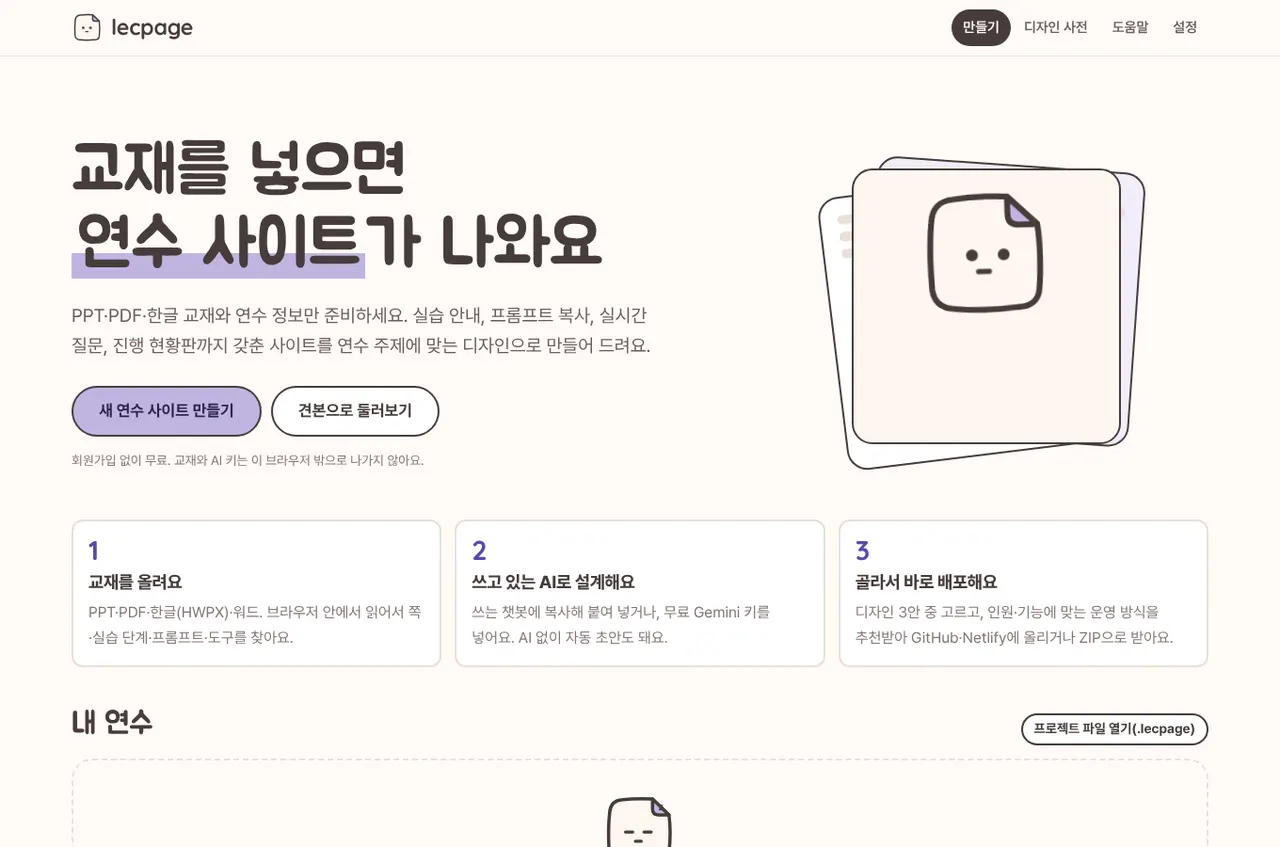
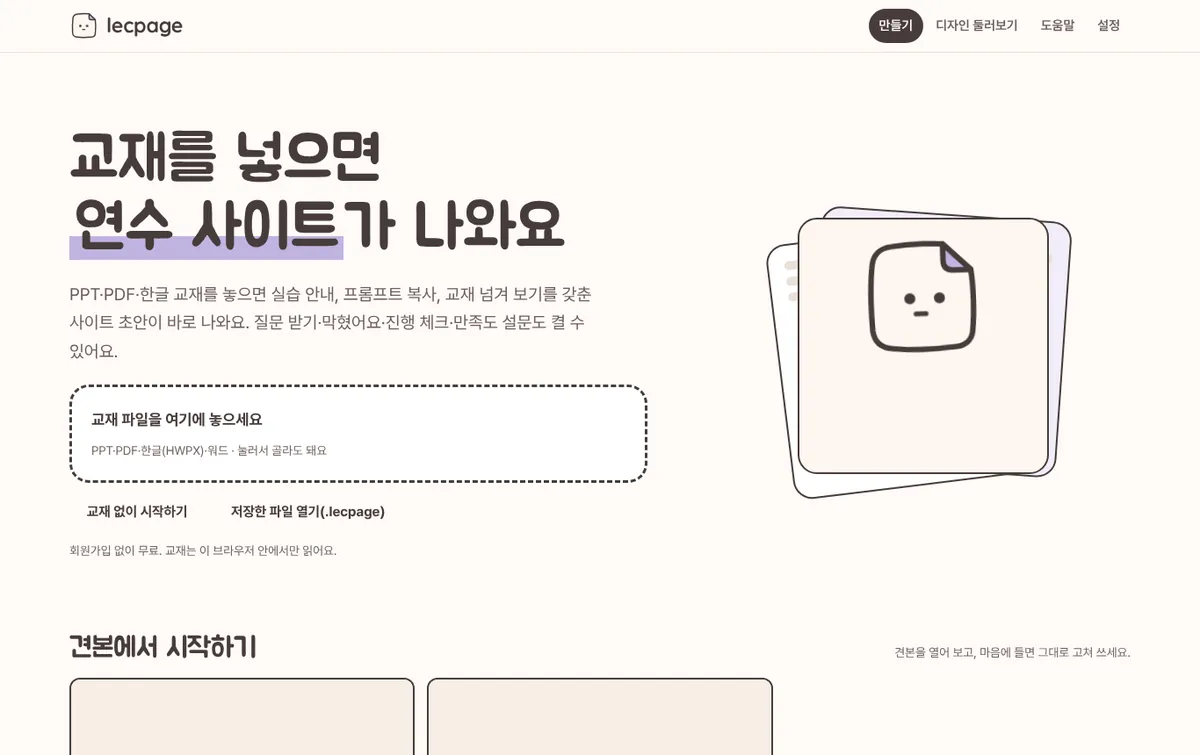
생성 사이트: 휴대폰 목차·'지금' 띠, 강사 화면 정리, 이수 확인 CSV, 발표 화면 도구, QR 안내문, CSP·SRI
- 참가자: 휴대폰 목차 시트, '지금' 띠(열린 투표·공지·타이머·따라가기), 자리 번호 입력 시트, 위쪽 메뉴 6개+더보기
- 강사 화면: 켠 기능 패널만, '지금' 띠, 기록 내려받기(이수 확인 포함), 결과 공개·단어 숨기기·신호 초기화
- 발표 화면: 결과는 공개 뒤에만, 신호등 막대, 도구(이름 뽑기·모둠·타이머 여러 개, 서버 없이)
- poster.html(A4 QR 안내문 + 강사 카드), 보드 사전 검토, 낱말 구름 정리, 한글 글자 효과 수정
- 보안: 모든 페이지 CSP meta, _headers(강사 화면 틀 넣기 금지), GSAP·Lenis SRI, eval 제거, privacy.html이 showEmail을 지킴
- 앱: 디자인 둘러보기, 견본·README 그림 새로 만듦

Claude-Session: https://claude.ai/code/session_01HqP3sDeio7vDaD8gojGxBH

diff --git a/skills/lecpage/engine/runtime/console.js b/skills/lecpage/engine/runtime/console.js
@@ -2,6 +2,8 @@
  * 켜진 기능과 섹션의 패널만 만듭니다. 맨 위 '지금' 띠: 참여자·도움 요청·도와주세요 신호·열린 투표. */
 (function () {
   'use strict';
+  // 다른 사이트가 강사 화면을 틀(iframe)에 넣어 관리자 키를 가로채지 못하게(헤더를 못 바꾸는 GitHub Pages 대비). 앱 미리보기는 예외
+  try { if (window.top !== window.self && !document.body.hasAttribute('data-lp-preview')) { document.documentElement.innerHTML = '<body><p style="font:16px sans-serif;padding:24px">강사 화면은 새 창에서 열어 주세요.</p></body>'; return; } } catch (e) { return; }
   var doc = document, $ = function (s, r) { return (r || doc).querySelector(s); };
   var DATA = {}, BP = {};
   try { DATA = JSON.parse($('#lp-data').textContent); BP = JSON.parse($('#lp-blueprint').textContent); } catch (e) { }
@@ -16,6 +18,7 @@
   function has(f) { return feats.indexOf(f) >= 0; }
   function hasSec(t) { return secs.some(function (s) { return s.type === t; }); }
   var polls = []; secs.forEach(function (s) { if (s.type === 'poll' && s.items) polls = polls.concat(s.items); });
+  var MODERATE = secs.some(function (s) { return s.type === 'board' && s.moderation; });
   // 켜진 것만: 패널·불러올 컬렉션·내려받기 종류가 모두 이걸 따릅니다
   var ON = {
     progress: stations.length > 0 && has('progress'), help: has('help'), qa: hasSec('qa') || has('qa'), signal: has('signal'),
@@ -37,6 +40,8 @@
     }).then(function () {
       try { sessionStorage.setItem('lp-admin:' + DATA.live.code, key); } catch (e) { }
       form.hidden = true; main.hidden = false; build(); loadAll(); conn.subscribe(onEvent);
+      // 보드 '먼저 확인'(board.moderation): 서버가 새 글을 숨긴 채 받도록 상태에 적어 둠(관리자만 바꿀 수 있음)
+      var mod = MODERATE || null; if (((state.ui || {}).moderation || null) !== mod) conn.setState({ ui: { moderation: mod } }).catch(function () { });
     }, function (err) { toast('연결하지 못했어요: ' + (err && err.message || '키와 서버 주소를 확인해 주세요.')); });
   }
   function loadAll() {
@@ -220,7 +225,10 @@
   function renderBoard() {
     var bl = P.board.body; bl.textContent = ''; var bul = el('ul', 'lp-list'); var posts = vals('posts').sort(function (a, b) { return (b.createdAt || 0) - (a.createdAt || 0); });
     if (!posts.length) bul.appendChild(el('li', 'lp-empty', '아직 글이 없어요.'));
-    posts.forEach(function (p) { var li = el('li'); li.appendChild(el('span', '', (p.nickname || '익명') + ': ' + (p.text || '(파일)').slice(0, 60) + (p.hidden ? ' · 숨김' : ''))); li.appendChild(btn(p.hidden ? '보이기' : '숨기기', 'lp-danger', function () { conn.update('posts', p.id, { hidden: !p.hidden }).catch(err); })); bul.appendChild(li); });
+    var waiting = posts.filter(function (p) { return p.hidden; }).length;
+    P.board.h.textContent = MODERATE ? '보드 관리 · 확인 기다림 ' + waiting : '보드 관리';
+    posts.forEach(function (p) { var li = el('li'); li.appendChild(el('span', '', (p.nickname || '익명') + ': ' + (p.text || '(파일)').slice(0, 60) + (p.hidden ? (MODERATE ? ' · 확인 기다림' : ' · 숨김') : ''))); li.appendChild(btn(p.hidden ? (MODERATE ? '보드에 올리기' : '보이기') : '숨기기', p.hidden ? (MODERATE ? 'lp-btn-primary' : '') : 'lp-danger', function () { conn.update('posts', p.id, { hidden: !p.hidden }).catch(err); })); bul.appendChild(li); });
+    if (MODERATE) bl.appendChild(el('p', 'lp-small', '먼저 확인하기가 켜져 있어요. 새 글은 \'보드에 올리기\'를 눌러야 참가자에게 보여요.'));
     bl.appendChild(bul);
   }
 
@@ -240,7 +248,7 @@
     if (BP.deck) {
       var r3 = el('div', 'lp-row'); var inp = el('input'); inp.type = 'number'; inp.min = 1; inp.max = BP.deck; inp.placeholder = '쪽'; inp.style.width = '6em'; inp.setAttribute('aria-label', '교재 쪽');
       r3.appendChild(el('span', '', '교재')); r3.appendChild(inp);
-      r3.appendChild(btn('이 쪽 보내기', '', function () { setState({ slide: +inp.value || 1 }); }));
+      r3.appendChild(btn('이 쪽 보내기', '', function () { setState({ slide: Math.max(1, Math.min(BP.deck, Math.round(+inp.value) || 1)) }); }));
       var pv = btn('◀', '', function () { setState({ slide: Math.max(1, (state.slide || 1) - 1) }); }); pv.setAttribute('aria-label', '앞 쪽'); r3.appendChild(pv);
       var nx = btn('▶', '', function () { setState({ slide: Math.min(BP.deck, (state.slide || 0) + 1) }); }); nx.setAttribute('aria-label', '다음 쪽'); r3.appendChild(nx);
       b.appendChild(r3); C.slide = inp;

diff --git a/skills/lecpage/engine/src/render/pages.js b/skills/lecpage/engine/src/render/pages.js
@@ -34,11 +34,33 @@ function robotsMeta(ctx, page) {
   return page === 'index' && ctx.bp.access?.mode === 'public' ? '' : '<meta name="robots" content="noindex, nofollow">';
 }
 
+/** 생성 사이트 보안 정책(CSP): 스크립트는 이 사이트와 지문을 고정한 라이브러리 경로만, 플러그인·base 바꾸기·틀 넣기 금지.
+ * file:은 USB·ZIP으로 열 때를 위해. 실시간 서버가 http(교실 LAN)면 그 주소도 허용 */
+export const LIB_SCRIPT_SOURCES = ['https://cdn.jsdelivr.net/npm/gsap@3.15.1/', 'https://cdn.jsdelivr.net/npm/lenis@1.3.27/', 'https://cdn.jsdelivr.net/npm/ogl@1.0.11/', 'https://cdn.jsdelivr.net/npm/@supabase/supabase-js@2.118.0/'];
+function cspMeta(ctx) {
+  let lan = '';
+  try { const u = new URL(ctx.bp.live?.url || ''); if (u.protocol === 'http:') lan = ` ${u.origin} ws://${u.host}`; } catch { /* 없음 */ }
+  const fonts = 'https://fonts.googleapis.com https://cdn.jsdelivr.net https://hangeul.pstatic.net';
+  const p = [
+    "default-src 'self' file:",
+    `script-src 'self' file: ${LIB_SCRIPT_SOURCES.join(' ')}`,
+    `style-src 'self' file: 'unsafe-inline' ${fonts}`,
+    "font-src 'self' file: data: https://fonts.gstatic.com https://cdn.jsdelivr.net https://hangeul.pstatic.net",
+    "img-src 'self' file: data: blob: https:",
+    "media-src 'self' file: blob: https:",
+    `connect-src 'self' file: https: wss:${lan}`,
+    "frame-src 'none'", "object-src 'none'", "base-uri 'none'", "form-action 'self'",
+  ];
+  return `<meta http-equiv="Content-Security-Policy" content="${p.join('; ')}">`;
+}
+
 function headTags(ctx, title, extraCss = [], page = 'app') {
   const m = ctx.bp.meta;
   const desc = m.description || m.subtitle || `${m.title} 연수 안내`;
   const bg = ctx.themeColor;
   return `<meta charset="utf-8">
+${cspMeta(ctx)}
+<meta name="referrer" content="strict-origin-when-cross-origin">
 <meta name="viewport" content="width=device-width, initial-scale=1, viewport-fit=cover">
 <title>${esc(title)}</title>
 <meta name="description" content="${esc(desc)}">
@@ -308,7 +330,7 @@ export function renderPrivacy(ctx) {
 <h2>3. 보유 기간</h2><p>연수 종료 후 ${pv.retentionDays}일. 기간이 지나면 지체 없이 파기합니다.</p>
 <h2>4. 거부할 권리</h2><p>동의하지 않아도 사이트의 안내·교재·실습 화면은 그대로 쓸 수 있습니다. 다만 출석 확인 등 이름이 필요한 기능은 쓸 수 없습니다.</p>
 <h2>5. 처리 위탁 및 국외 이전</h2>${procs.length ? `<ul>${procs.map((p) => `<li>${esc(p.name)} (${esc(p.country)}) – ${esc(p.purpose)}</li>`).join('')}</ul>` : '<p>없음</p>'}
-<h2>6. 문의</h2><p>${esc(pv.contact || bp.instructors.find((i) => i.email)?.email || '연수 운영자에게 문의해 주세요.')}</p>
+<h2>6. 문의</h2><p>${esc(pv.contact || bp.instructors.find((i) => i.email && i.showEmail)?.email || '연수 운영자에게 문의해 주세요.')}</p>
 <p class="lp-small">이 안내는 lecpage가 연수 설정에서 자동으로 만들었습니다. 기관의 개인정보 처리방침이 있으면 그것을 따릅니다.</p>
 <p><a class="lp-link" href="index.html">연수 사이트로 돌아가기</a></p></main>`;
   return appShell(ctx, `개인정보 처리 안내 · ${bp.meta.title}`, 'lp-body-doc', inner, []);

diff --git a/skills/lecpage/engine/runtime/fx/core.js b/skills/lecpage/engine/runtime/fx/core.js
@@ -59,14 +59,23 @@
     if (!/^[a-z]+:/i.test(url) && url.indexOf('//') !== 0) return true; // 같은 사이트 상대 경로(USB·오프라인 배포)
     return /^https:\/\/cdn\.jsdelivr\.net\/(npm|gh)\/[^/]+@\d/.test(url) || /^https:\/\/cdn\.jsdelivr\.net\/(npm|gh)\/@[^/]+\/[^/]+@\d/.test(url);
   }
+  // 외부 라이브러리는 내용 지문(SRI)이 맞을 때만 실행(CDN이 바뀌거나 뚫려도 다른 코드가 돌지 않게)
+  var SRI = {
+    'https://cdn.jsdelivr.net/npm/gsap@3.15.1/dist/gsap.min.js': 'sha384-3vCAhD+a3BOliP3QqjQINn6ZWiZxoqu0WFxX5ZQZgqekDZuSb1mJBrrLMmu94H8f',
+    'https://cdn.jsdelivr.net/npm/gsap@3.15.1/dist/ScrollTrigger.min.js': 'sha384-H2WL1iy/jKQQ7MTHU2hskZKNHTYWWD/KgKE1vCNnaWY8An2ESTh23KN/fTp8XS3j',
+    'https://cdn.jsdelivr.net/npm/lenis@1.3.27/dist/lenis.min.js': 'sha384-R18XzqnxvVLEF+BYfhpmDx30v7eP83fAckyfoRzK7/Uf6nGqufcmsk0eAKo7S3RU'
+  };
   function load(url) {
     if (loads[url]) return loads[url];
     loads[url] = new Promise(function (res) {
       if (!allowed(url)) { res(false); return; }
+      var abs = /^https:/i.test(url);
+      if (abs && !SRI[url]) { res(false); return; } // 지문이 없는 외부 스크립트는 받지 않음
       var s = d.createElement('script');
       var t = setTimeout(function () { done(false); }, 12000);
       function done(ok) { clearTimeout(t); s.onload = s.onerror = null; res(ok); }
       s.src = url; s.async = true; s.crossOrigin = 'anonymous';
+      if (abs) s.integrity = SRI[url];
       s.onload = function () { done(true); };
       s.onerror = function () { done(false); };
       (d.head || html).appendChild(s);
@@ -78,7 +87,9 @@
     if (loads['esm:' + url]) return loads['esm:' + url];
     loads['esm:' + url] = new Promise(function (res) {
       if (!allowed(url)) { res(null); return; }
-      try { dynImport = dynImport || new Function('u', 'return import(u)'); } catch (e) { res(null); return; }
+      // ESM은 정해 둔 한 곳(OGL 고정 판)만. eval·new Function을 쓰지 않아 엄격한 CSP에서도 동작
+      if (url !== 'https://cdn.jsdelivr.net/npm/ogl@1.0.11/+esm') { res(null); return; }
+      dynImport = dynImport || function (u) { return import(u); };
       var t = setTimeout(function () { res(null); }, 15000);
       dynImport(url).then(function (m) { clearTimeout(t); res(m); }, function () { clearTimeout(t); res(null); });
     });

diff --git a/skills/lecpage/engine/src/build.js b/skills/lecpage/engine/src/build.js
@@ -5,7 +5,7 @@ import { resolveDesign } from './decide/design.js';
 import { decideInfra } from './decide/infra.js';
 import { themeCSS, themeTokens, presetWithOverrides } from './design/tokens.js';
 import { getPreset } from './design/presets.js';
-import { renderIndex, renderConsole, renderScreen, renderCheck, renderPrivacy, designDoc, opsDoc } from './render/pages.js';
+import { renderIndex, renderConsole, renderScreen, renderCheck, renderPrivacy, renderPoster, designDoc, opsDoc } from './render/pages.js';
 import { esc } from './render/html.js';
 
 /** 사이트에 넣을 수 있는 사용자 자료(교재 그림·원본·사진·소리·영상) */
@@ -66,6 +66,7 @@ export function build(input, opts = {}) {
   files['index.html'] = renderIndex(ctx);
   files['check.html'] = renderCheck(ctx);
   files['screen.html'] = renderScreen(ctx);
+  files['poster.html'] = renderPoster(ctx); // A4 QR 안내문(인쇄용) + 강사용 카드
   if (live) { files['console.html'] = renderConsole(ctx); files['privacy.html'] = renderPrivacy(ctx); }
 
   files['assets/theme.css'] = theme.css;
@@ -93,6 +94,9 @@ export function build(input, opts = {}) {
   }
 
   const infra = opts.infra ? decideInfra(opts.infra) : null;
+  // Netlify·Cloudflare가 읽는 응답 헤더(GitHub Pages는 무시): 강사 화면을 다른 사이트 틀(iframe)에 못 넣게
+  files['_headers'] = ['/*', '  X-Content-Type-Options: nosniff', '  Referrer-Policy: strict-origin-when-cross-origin', '  Permissions-Policy: camera=(), microphone=(), geolocation=()', '',
+    ...['/console.html', '/screen.html', '/poster.html'].flatMap((p) => [p, "  Content-Security-Policy: frame-ancestors 'none'", '  X-Frame-Options: DENY', '']), '/assets/*', '  X-Content-Type-Options: nosniff', ''].join('\n');
   // 검색 노출: 'public'일 때만 허용(기본은 주소·QR을 받은 사람만)
   files['robots.txt'] = bp.access.mode === 'public' ? 'User-agent: *\nAllow: /\n' : 'User-agent: *\nDisallow: /\n';
   // 강사용 파일은 올리는 사이트와 따로 돌려줌(설계도에는 강사 메일 등 공개하지 않을 값이 있을 수 있음)

diff --git a/skills/lecpage/backends/cloudflare/src/protocol.js b/skills/lecpage/backends/cloudflare/src/protocol.js
@@ -600,6 +600,7 @@ export class LiveCore {
     if (s.maxUploadMb != null) settings.maxUploadMb = cleanNum(s.maxUploadMb, 'maxUploadMb', 1, Math.floor(this.cfg.maxUploadBytes / 1048576), { int: true });
     if (s.uploads != null) settings.uploads = cleanBool(s.uploads, 'uploads', true);
     if (s.title != null) settings.title = cleanText(s.title, 120, 'title');
+    if (s.moderation != null) settings.moderation = cleanBool(s.moderation, 'moderation', false);
     const now = this.now();
     this.db.run(`INSERT INTO trainings (code, admin_hash, settings, created_at, last_at) VALUES (?, ?, ?, ?, ?) ON CONFLICT(code) DO UPDATE SET admin_hash = excluded.admin_hash, settings = excluded.settings, last_at = excluded.last_at`, code, hash, JSON.stringify(settings), now, now);
     return { status: existing ? 200 : 201, body: { ok: true, code, settings } };
@@ -719,7 +720,8 @@ export class LiveCore {
       case 'survey': k = by; break;
       case 'help': Object.assign(data, { nickname, status: 'open', assignee: '' }); break;
       case 'questions': Object.assign(data, { nickname: data.anonymous ? '' : nickname, votes: 0, status: 'open', pinned: false }); break;
-      case 'posts': Object.assign(data, { nickname, likes: 0, hidden: false }); break;
+      // board pre-moderation: new posts stay hidden until the instructor shows them (init setting or state.ui.moderation, both admin-only)
+      case 'posts': Object.assign(data, { nickname, likes: 0, hidden: !admin && (t.settingsObj?.moderation === true || this.state(code, t).ui?.moderation === true) }); break;
       case 'chat': Object.assign(data, { nickname, hidden: false }); break;
       default: break;
     }

diff --git a/skills/lecpage/backends/node-server/lib/protocol.js b/skills/lecpage/backends/node-server/lib/protocol.js
@@ -600,6 +600,7 @@ export class LiveCore {
     if (s.maxUploadMb != null) settings.maxUploadMb = cleanNum(s.maxUploadMb, 'maxUploadMb', 1, Math.floor(this.cfg.maxUploadBytes / 1048576), { int: true });
     if (s.uploads != null) settings.uploads = cleanBool(s.uploads, 'uploads', true);
     if (s.title != null) settings.title = cleanText(s.title, 120, 'title');
+    if (s.moderation != null) settings.moderation = cleanBool(s.moderation, 'moderation', false);
     const now = this.now();
     this.db.run(`INSERT INTO trainings (code, admin_hash, settings, created_at, last_at) VALUES (?, ?, ?, ?, ?) ON CONFLICT(code) DO UPDATE SET admin_hash = excluded.admin_hash, settings = excluded.settings, last_at = excluded.last_at`, code, hash, JSON.stringify(settings), now, now);
     return { status: existing ? 200 : 201, body: { ok: true, code, settings } };
@@ -719,7 +720,8 @@ export class LiveCore {
       case 'survey': k = by; break;
       case 'help': Object.assign(data, { nickname, status: 'open', assignee: '' }); break;
       case 'questions': Object.assign(data, { nickname: data.anonymous ? '' : nickname, votes: 0, status: 'open', pinned: false }); break;
-      case 'posts': Object.assign(data, { nickname, likes: 0, hidden: false }); break;
+      // board pre-moderation: new posts stay hidden until the instructor shows them (init setting or state.ui.moderation, both admin-only)
+      case 'posts': Object.assign(data, { nickname, likes: 0, hidden: !admin && (t.settingsObj?.moderation === true || this.state(code, t).ui?.moderation === true) }); break;
       case 'chat': Object.assign(data, { nickname, hidden: false }); break;
       default: break;
     }

diff --git a/skills/lecpage/engine/src/design/fx-catalog.js b/skills/lecpage/engine/src/design/fx-catalog.js
@@ -55,10 +55,10 @@ export const FX = [
     desc_ko: '긴 문장의 낱말이 흐린 색에서 제 색으로 스크롤에 맞춰 차오릅니다. 핵심 메시지를 천천히 읽게 만듭니다.',
     use_ko: '두세 문장짜리 메시지 문단에. opts: start(0.85), end(0.4), min(흐린 정도 0.2).',
     a11y_ko: '스크롤에 묶인 표현이라 자동 재생이 아님. 흐린 단계는 장식이며 낭독기는 원문 그대로 읽음. 동작 줄이기면 끔.' },
-  { id: 'scramble', name_ko: '한글 해독 글자', name_en: 'Hangul scramble', group: 'text',
+  { id: 'scramble', name_ko: '왼쪽부터 또렷해지는 글자', name_en: 'Decode reveal', group: 'text',
     slots: ['hero.title', 'section.title', 'numbers'], moods: ['tech', 'futuristic', 'playful', 'bold'], topics: ['ai', 'coding', 'edutech', 'maker', 'science'],
     level: 2, libs: [], license: MIT, trend: 'std', weightKB: 2.3,
-    desc_ko: '한글 음절·영문·숫자가 같은 종류의 무작위 글자로 섞였다가 왼쪽부터 제자리를 찾습니다(약 1초, 한 번).',
+    desc_ko: '글자가 왼쪽부터 차례로 또렷해집니다. 한글은 다른 음절로 바뀌지 않고, 영문·숫자만 잠깐 섞입니다(0.7초 안, 한 번).',
     use_ko: '짧은 제목·라벨·숫자에. opts: trigger "enter"|"hover"|"both", duration, max(글자 수 상한 160).',
     a11y_ko: '원문은 낭독기용 숨김 글로 유지. 글자 폭을 고정해 흔들림 없음. 동작 줄이기면 끔.' },
   { id: 'gradient-text', name_ko: '흐르는 그라데이션 글자', name_en: 'Gradient text', group: 'text', loop: true,

diff --git a/app/src/lib/engine.js b/app/src/lib/engine.js
@@ -40,6 +40,7 @@ export function previewHtml(files, page = 'index.html', { maxImageBytes = 6e6 } 
     return `${attr}="${toDataUrl(p, data)}"`;
   });
   // 미리보기 안에서는 다른 페이지 링크가 동작하지 않으니 표시만
+  html = html.replace(/<meta http-equiv="Content-Security-Policy"[^>]*>/i, ''); // 미리보기는 앱 안(한 파일로 묶어 넣음)이라 사이트용 CSP를 뺌
   html = html.replace('<body', '<body data-lp-preview="1"');
   // '고칠 곳 고르기': 앱이 켜면 칸에 마우스를 올려 고르고, 누르면 그 칸의 id만 앱으로 보냄(앱은 아는 id인지 다시 확인)
   const pick = `<script>(function(){var on=false;var st=document.createElement('style');st.textContent='html.lp-pick main [id]:not(main [id] [id]):hover{outline:3px dashed #5B49B0;outline-offset:-3px;cursor:pointer}';document.head.appendChild(st);addEventListener('message',function(e){if(e.source!==parent)return;var d=e.data||{};if(d.type==='lp-pick'){on=!!d.on;document.documentElement.classList.toggle('lp-pick',on);}});document.addEventListener('click',function(e){if(!on)return;var m=document.querySelector('main');var s=e.target.closest&&e.target.closest('[id]');while(s&&s.parentElement&&s.parentElement.closest&&s.parentElement.closest('main [id]'))s=s.parentElement.closest('main [id]');if(!s||!m||!m.contains(s))return;e.preventDefault();e.stopPropagation();parent.postMessage({type:'lp-picked',id:String(s.id).slice(0,80)},'*');},true);})();<\/script>`;

diff --git a/skills/lecpage/engine/runtime/lecpage.js b/skills/lecpage/engine/runtime/lecpage.js
@@ -518,7 +518,7 @@
         var btn = bf.querySelector('[type=submit]'); btn.disabled = true; toast('올리는 중이에요…');
         var ups = Array.prototype.slice.call(files).map(function (f) { return conn.upload(f); });
         Promise.all(ups).then(function (fs) { return conn.add('posts', { kind: fd.get('kind') || '', text: (fd.get('text') || '').trim(), nickname: me.nickname, files: fs, license: fd.get('license') || 'own' }); })
-          .then(function (d) { if (d && d.id) posts[d.id] = d; bf.reset(); bf.hidden = true; drawBoard(); toast('올렸어요.'); }, function (err) { toast('올리지 못했어요: ' + (err && err.message || '파일 크기나 종류를 확인해 주세요.')); })
+          .then(function (d) { if (d && d.id) posts[d.id] = d; bf.reset(); bf.hidden = true; drawBoard(); toast(d && d.hidden ? '보냈어요. 강사가 확인하면 보드에 보여요.' : '올렸어요.'); }, function (err) { toast('올리지 못했어요: ' + (err && err.message || '파일 크기나 종류를 확인해 주세요.')); })
           .then(function () { btn.disabled = false; });
       });
     }

diff --git a/skills/lecpage/engine/runtime/screen.js b/skills/lecpage/engine/runtime/screen.js
@@ -214,6 +214,8 @@
     if (p) {
       main.appendChild(el('h2', 'lp-h2', p.question));
       var list = Object.keys(answers).map(function (k) { return answers[k]; }).filter(function (a) { return a.poll === p.id; }), total = list.length;
+      // 결과는 강사가 '결과 공개'를 누른 뒤에만(먼저 보이면 다른 사람 답을 따라가게 됨)
+      if (X.revealed && !X.revealed(state, p.id)) { main.appendChild(el('p', 'lp-screen-wait', '응답 ' + total + '명 · 강사가 결과를 공개하면 여기에 보여요')); return; }
       if (p.kind === 'word') {
         var words = U.wordCloud(list, p.id, { hidden: X.hiddenWords(state) }), wt = words.reduce(function (a, w) { return a + w.count; }, 0) || 1;
         var cl = el('div', 'lp-cloud'); words.slice(0, 50).forEach(function (w) { var s = el('span', '', w.word); s.style.fontSize = (1.4 + Math.min(4, w.count / wt * 10)) + 'rem'; cl.appendChild(s); }); main.appendChild(cl);

diff --git a/skills/lecpage/engine/runtime/live/core.js b/skills/lecpage/engine/runtime/live/core.js
@@ -751,7 +751,7 @@
       var tmp = assign({}, op.doc, { id: 'tmp_' + op.cid, cid: op.cid, createdAt: now, updatedAt: now, _pending: true });
       if (this._me) tmp.by = this._me.id;
       if (op.col === 'questions') assign(tmp, { votes: 0, status: 'open', pinned: false, nickname: op.doc.anonymous === false && this._me ? this._me.nickname : '' });
-      if (op.col === 'posts') assign(tmp, { likes: 0, hidden: false, nickname: this._me ? this._me.nickname : '' });
+      if (op.col === 'posts') assign(tmp, { likes: 0, hidden: !!(this._state.ui || {}).moderation, nickname: this._me ? this._me.nickname : '' });
       if (op.col === 'chat' || op.col === 'help') tmp.nickname = this._me ? this._me.nickname : '';
       if (op.col === 'help') assign(tmp, { status: 'open', assignee: '' });
       if (op.col === 'progress' || op.col === 'answers' || op.col === 'survey' || op.col === 'attendance') {

diff --git a/skills/lecpage/engine/runtime/live/local.js b/skills/lecpage/engine/runtime/live/local.js
@@ -132,7 +132,7 @@
         if (col === 'answers') match = function (x) { return x.by === by && x.poll === d.poll; };
         if (col === 'survey') match = function (x) { return x.by === by; };
         if (col === 'questions') U.assign(d, { anonymous: d.anonymous !== false, votes: 0, status: 'open', pinned: false, nickname: d.anonymous === false ? p.nickname : '' });
-        if (col === 'posts') U.assign(d, { likes: 0, hidden: false, nickname: p.nickname, files: d.files || [] });
+        if (col === 'posts') U.assign(d, { likes: 0, hidden: !!(config.moderation || (adapter._state().ui || {}).moderation), nickname: p.nickname, files: d.files || [] });
         if (col === 'chat') U.assign(d, { nickname: p.nickname, hidden: false });
         if (col === 'help') U.assign(d, { nickname: p.nickname, status: 'open', assignee: '' });
         if (col === 'polls') d.open = !!d.open;
